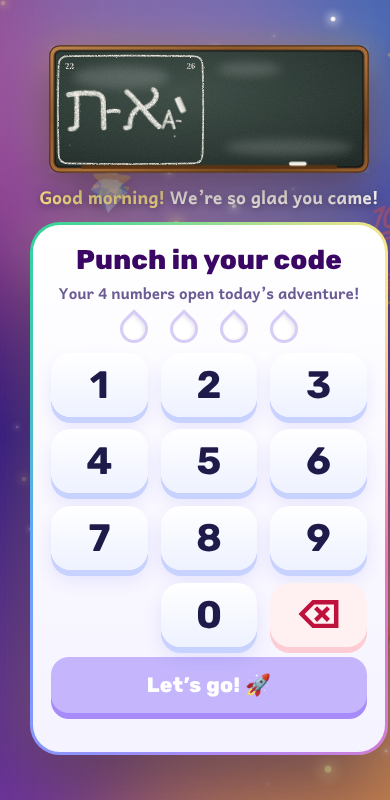
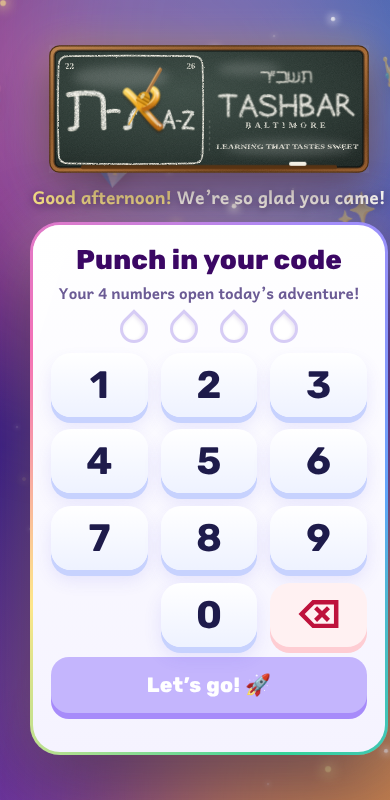
Stage 2: Firebase server answers the open-the-app calls itself (0.1 s instead of 5-13 s)
- functions/index.js: MOVED = ping, msQuestTools, msQuestToolsParts, apiKidPage, apiStaffPage,
  refreshed from Apps Script every 2 minutes; everything else passes through
- docs/FIREBASE.md: what is live, how it fits, what is left

Claude-Session: https://claude.ai/code/session_01JPKZXHVtRVvuJB1EMsn3kg

diff --git a/functions/index.js b/functions/index.js
@@ -1,19 +1,56 @@
 /* Tashbar server on Firebase (Stage 2). One HTTPS function, "api".
-   TODAY: answers "ping" itself and passes every other app call through to the Apps Script server unchanged, so the
-   pages can talk to this address without any change in behaviour. Each server function then moves here one at a
-   time; a function that has moved is answered here and no longer passed through.
-   No student data is stored here yet. */
+   A call is answered HERE if its name is in MOVED; every other call is passed through to the Apps Script server
+   unchanged. Functions move here one at a time.
+   MOVED so far (no student data in any of them):
+     ping                  health check
+     msQuestTools          the add-on loader
+     msQuestToolsParts     "which lesson pieces are current, and send me the ones I lack"
+     apiKidPage            "is my student page current?"
+     apiStaffPage          "is my staff page current?"
+   These are the calls every device makes when it opens the app. They are the same for everyone, so this server
+   asks Apps Script once every 2 minutes and answers all devices from memory. A new publish is seen within 2 minutes. */
 const { onRequest } = require('firebase-functions/v2/https');
 const APPS_SCRIPT = 'https://script.google.com/macros/s/AKfycbwcTw8upBIAN3n1D36TON-3u6_VQdo-6zLYJT_bMa11yeFwN9IhL_saGDciQP5QK70pEw/exec';
-const MOVED = { ping: async () => ({ pong: true, at: new Date().toISOString(), server: 'firebase' }) };
+const TTL = 120000;
 
-exports.api = onRequest({ region: 'us-east4', cors: true, memory: '512MiB', timeoutSeconds: 120, maxInstances: 50 }, async (req, res) => {
+async function appsScript(fn, args) {
+  const r = await fetch(APPS_SCRIPT, { method: 'POST', headers: { 'Content-Type': 'text/plain;charset=utf-8' }, body: JSON.stringify({ api: 1, fn, args: args || [] }), redirect: 'follow' });
+  return r.text();
+}
+async function appsScriptResult(fn, args) { const j = JSON.parse(await appsScript(fn, args)); if (!j.ok) throw new Error(j.error || 'Server error'); return j.result; }
+
+/* one shared copy per name: refreshed at most every TTL, one refresh at a time, and the old copy is kept if a refresh fails */
+const store = {};
+function shared(name, load) {
+  const s = store[name] || (store[name] = { at: 0, value: undefined, busy: null });
+  const fresh = Date.now() - s.at < TTL;
+  if (s.value !== undefined && fresh) return Promise.resolve(s.value);
+  if (!s.busy) s.busy = load().then(v => { s.value = v; s.at = Date.now(); s.busy = null; return v; }, e => { s.busy = null; if (s.value !== undefined) return s.value; throw e; });
+  return s.value !== undefined ? Promise.resolve(s.value) : s.busy;   /* serve the old copy while a refresh runs */
+}
+const pageAnswer = (name) => async (have) => { const p = await shared(name, () => appsScriptResult(name, [''])); return String(have || '') === p.h ? { h: p.h, same: true } : { h: p.h, html: p.html }; };
+
+const MOVED = {
+  ping: async () => ({ pong: true, at: new Date().toISOString(), server: 'firebase' }),
+  msQuestTools: () => shared('msQuestTools', () => appsScriptResult('msQuestTools', [])),
+  msQuestToolsParts: async (have) => {
+    const all = await shared('msQuestToolsParts', async () => { const r = await appsScriptResult('msQuestToolsParts', [[]]); if (!r || !r.order || r.order.some(h => typeof r.parts[h] !== 'string')) throw new Error('incomplete parts'); return r; });
+    const got = {}; (Array.isArray(have) ? have : []).forEach(h => { got[String(h)] = 1; });
+    const parts = {}; all.order.forEach(h => { if (!got[h]) parts[h] = all.parts[h]; });
+    return { v: all.v || 2, order: all.order, parts };
+  },
+  apiKidPage: pageAnswer('apiKidPage'),
+  apiStaffPage: pageAnswer('apiStaffPage')
+};
+
+exports.api = onRequest({ region: 'us-east4', cors: true, memory: '1GiB', timeoutSeconds: 300, maxInstances: 50, minInstances: 1 }, async (req, res) => {
   try {
     if (req.method !== 'POST') return res.status(200).json({ ok: true, result: 'Tashbar server' });
     const body = typeof req.body === 'string' ? JSON.parse(req.body || '{}') : (req.body && Object.keys(req.body).length ? req.body : JSON.parse((req.rawBody || '{}').toString()));
-    if (!body || body.api !== 1 || !/^[a-z][A-Za-z0-9]*$/.test(String(body.fn || ''))) return res.status(200).json({ ok: false, error: 'Not an app request.' });
-    if (MOVED[body.fn]) return res.status(200).json({ ok: true, result: await MOVED[body.fn].apply(null, Array.isArray(body.args) ? body.args : []) });
-    const r = await fetch(APPS_SCRIPT, { method: 'POST', headers: { 'Content-Type': 'text/plain;charset=utf-8' }, body: JSON.stringify({ api: 1, fn: body.fn, args: body.args || [] }), redirect: 'follow' });
-    res.status(200).type('application/json').send(await r.text());
+    const fn = String((body && body.fn) || '');
+    if (!body || body.api !== 1 || !/^[a-z][A-Za-z0-9]*$/.test(fn)) return res.status(200).json({ ok: false, error: 'Not an app request.' });
+    const args = Array.isArray(body.args) ? body.args.slice(0, 8) : [];
+    if (Object.prototype.hasOwnProperty.call(MOVED, fn)) return res.status(200).json({ ok: true, result: await MOVED[fn].apply(null, args) });
+    res.status(200).type('application/json').send(await appsScript(fn, args));
   } catch (e) { res.status(200).json({ ok: false, error: String((e && e.message) || e).slice(0, 300) }); }
 });

diff --git a/docs/FIREBASE.md b/docs/FIREBASE.md
@@ -1,0 +1,40 @@
+# Moving off Apps Script to Firebase: where it stands
+
+Project: `tashbar-learning-live` (billing on). Head of School decision 2026-11-16: Firebase is part of the school's own system.
+
+## Live now
+| Piece | Address | What it is |
+|---|---|---|
+| Student app | https://tashbar-learning-live.web.app | Exact copy of the live student page and lesson packs, on Firebase Hosting |
+| Staff portal | https://tashbar-learning-live.web.app/staff/ | Exact copy of the live staff portal (`?sg=1` goes there too) |
+| Server | https://api-q26c275eaa-uk.a.run.app | Cloud Function `api` (region us-east4). Answers MOVED calls itself, passes the rest to Apps Script |
+| Database | Firestore `(default)`, us-east4 | Created, EMPTY. No student data has been moved |
+
+The old `/exec` links still work exactly as before and are what students use until the Head of School switches them.
+
+## How the pieces fit
+- `web/build.js` builds the hosted pages FROM THE LIVE SERVER (`apiKidPage`, `apiStaffPage`, `msQuestTools`, `msQuestToolsParts`).
+- `web/boot.js` runs first on each page: stands in for `google.script.run`, loads lesson pieces from the fast host, then checks with the server in the background and keeps a newer page or newer pieces on the device for the next open. `web/sw.js` serves a kept page.
+- `web/refresh.sh` rebuilds and deploys Hosting in one step (needs clasp signed in as the owner).
+- `src/ApiRoute.js` (in the Apps Script project): `doPost` with an allow-list (`API_ALLOW`), plus `apiKidPage` and `apiStaffPage`. A new server function called by a page must be added to `API_ALLOW`.
+- `functions/index.js`: the Firebase server. `MOVED` lists the calls it answers itself.
+
+## Moved to Firebase so far (no student data)
+`ping`, `msQuestTools`, `msQuestToolsParts`, `apiKidPage`, `apiStaffPage`. These are the calls every device makes on opening. The function asks Apps Script once every 2 minutes and answers everyone from memory: about 0.1 s each instead of 5 to 13 s, and no load on Apps Script.
+
+## Not moved yet (the real Stage 2)
+1. Sign-in (`msSignInCode`, `msSignInFast`), load (`msLoad`), save (`msSave`): needs student state in Firestore, a copy back to Sheets so staff screens keep working, and test students first.
+2. Money (`Money.js`, `msCheckPay_`, store, interest, prizes): port the rules unchanged, compare every balance against the Sheets ledger nightly before switching.
+3. Staff screens (`sg*`, `cr*`, `ac*`, `sb*`): one tab at a time, reading only what each screen needs.
+4. Then retire Apps Script.
+
+Measured pass-through times that show why: a simple call 4 to 5 s, `sgLoad` 16 s.
+
+## Deploying
+- Hosting: `./web/refresh.sh "note"`.
+- Function: `gcloud functions deploy api --gen2 --region=us-east4 --runtime=nodejs22 --source=functions --entry-point=api --trigger-http --allow-unauthenticated --memory=1Gi --timeout=300s --max-instances=50 --min-instances=1` with an access token from the clasp sign-in (`web/token.py`).
+- The clasp sign-in expires about once a day (school Google policy). A deploy service account would remove that; not set up yet.
+
+## Things the owner changed by hand
+- Firebase project created; Blaze billing turned on.
+- Organization policy "Domain restricted sharing" overridden to Allow all for this one project, so the function can be public.
